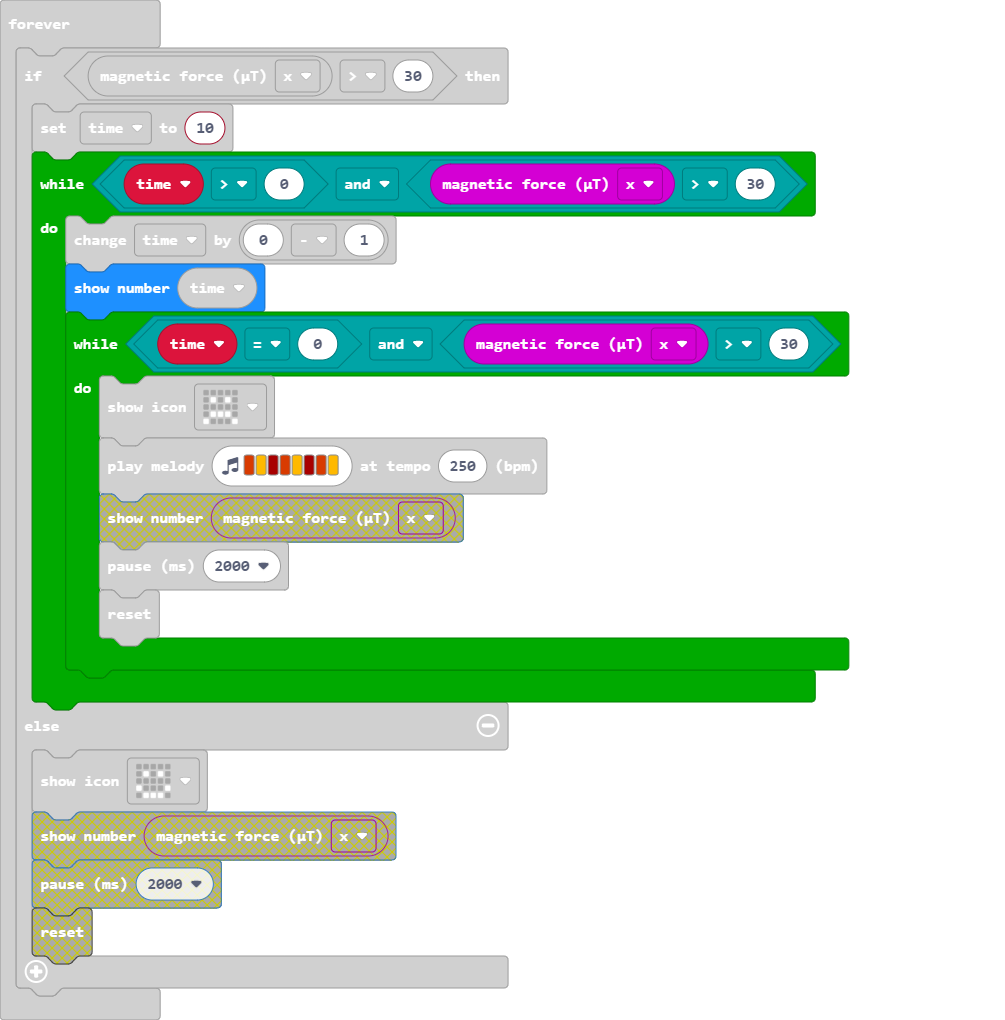
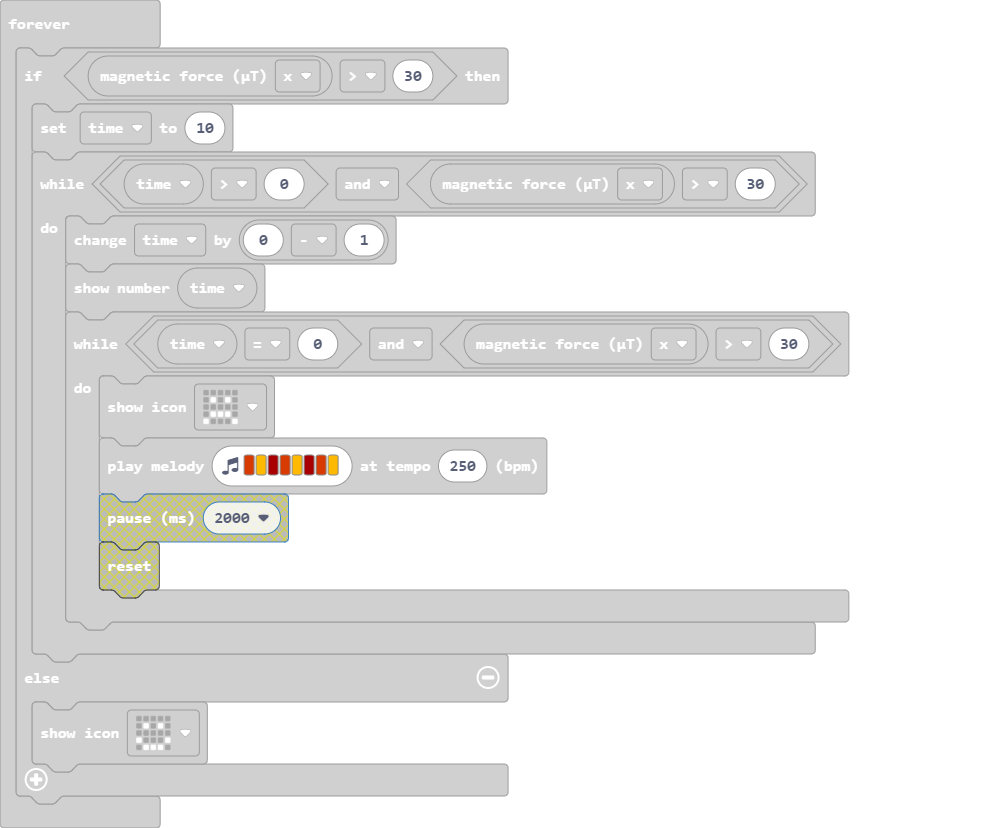
Update main.blocks, main.ts

diff --git a/main.ts b/main.ts
@@ -8,8 +8,6 @@ basic.forever(function () {
             while (time == 0 && input.magneticForce(Dimension.X) > 30) {
                 basic.showIcon(IconNames.Sad)
                 music.playMelody("B A C5 B A C5 B A ", 250)
-                basic.pause(2000)
-                control.reset()
             }
         }
     } else {
